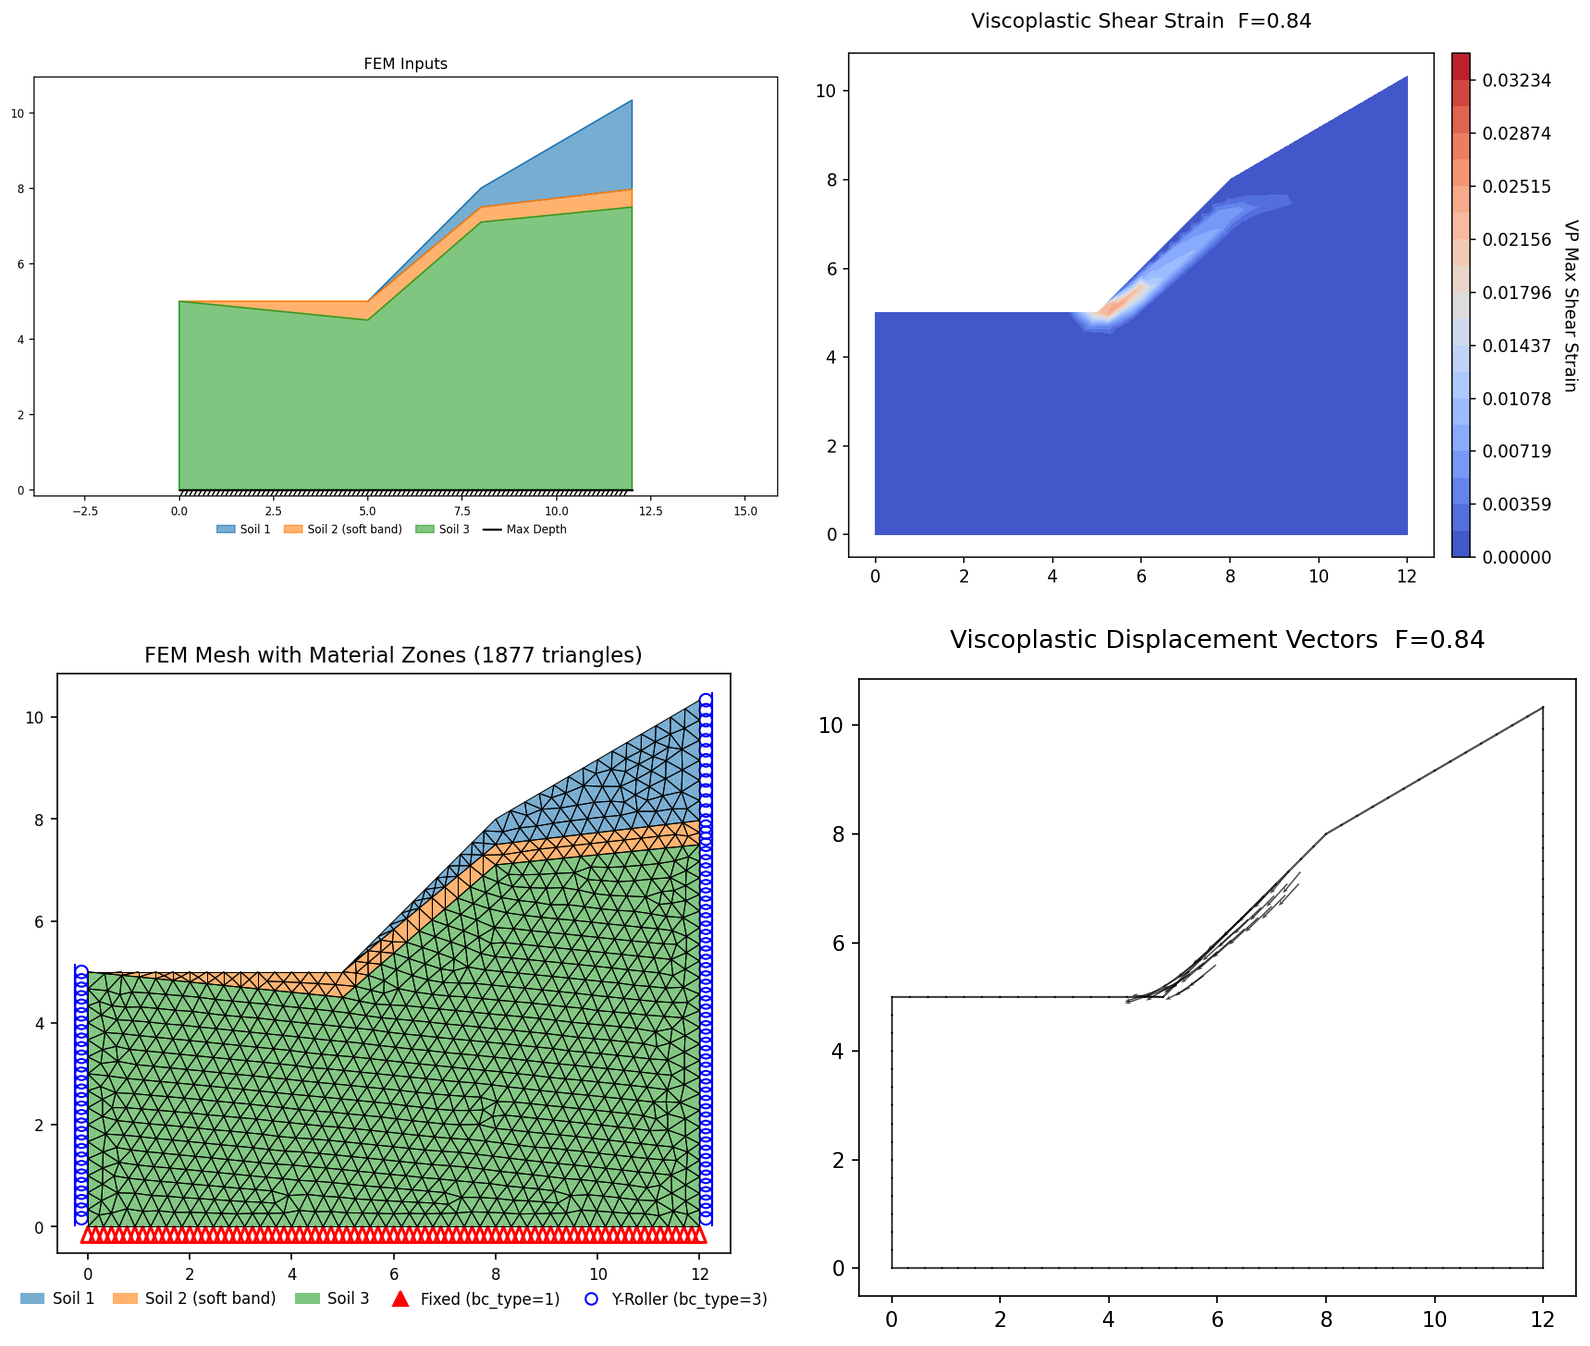
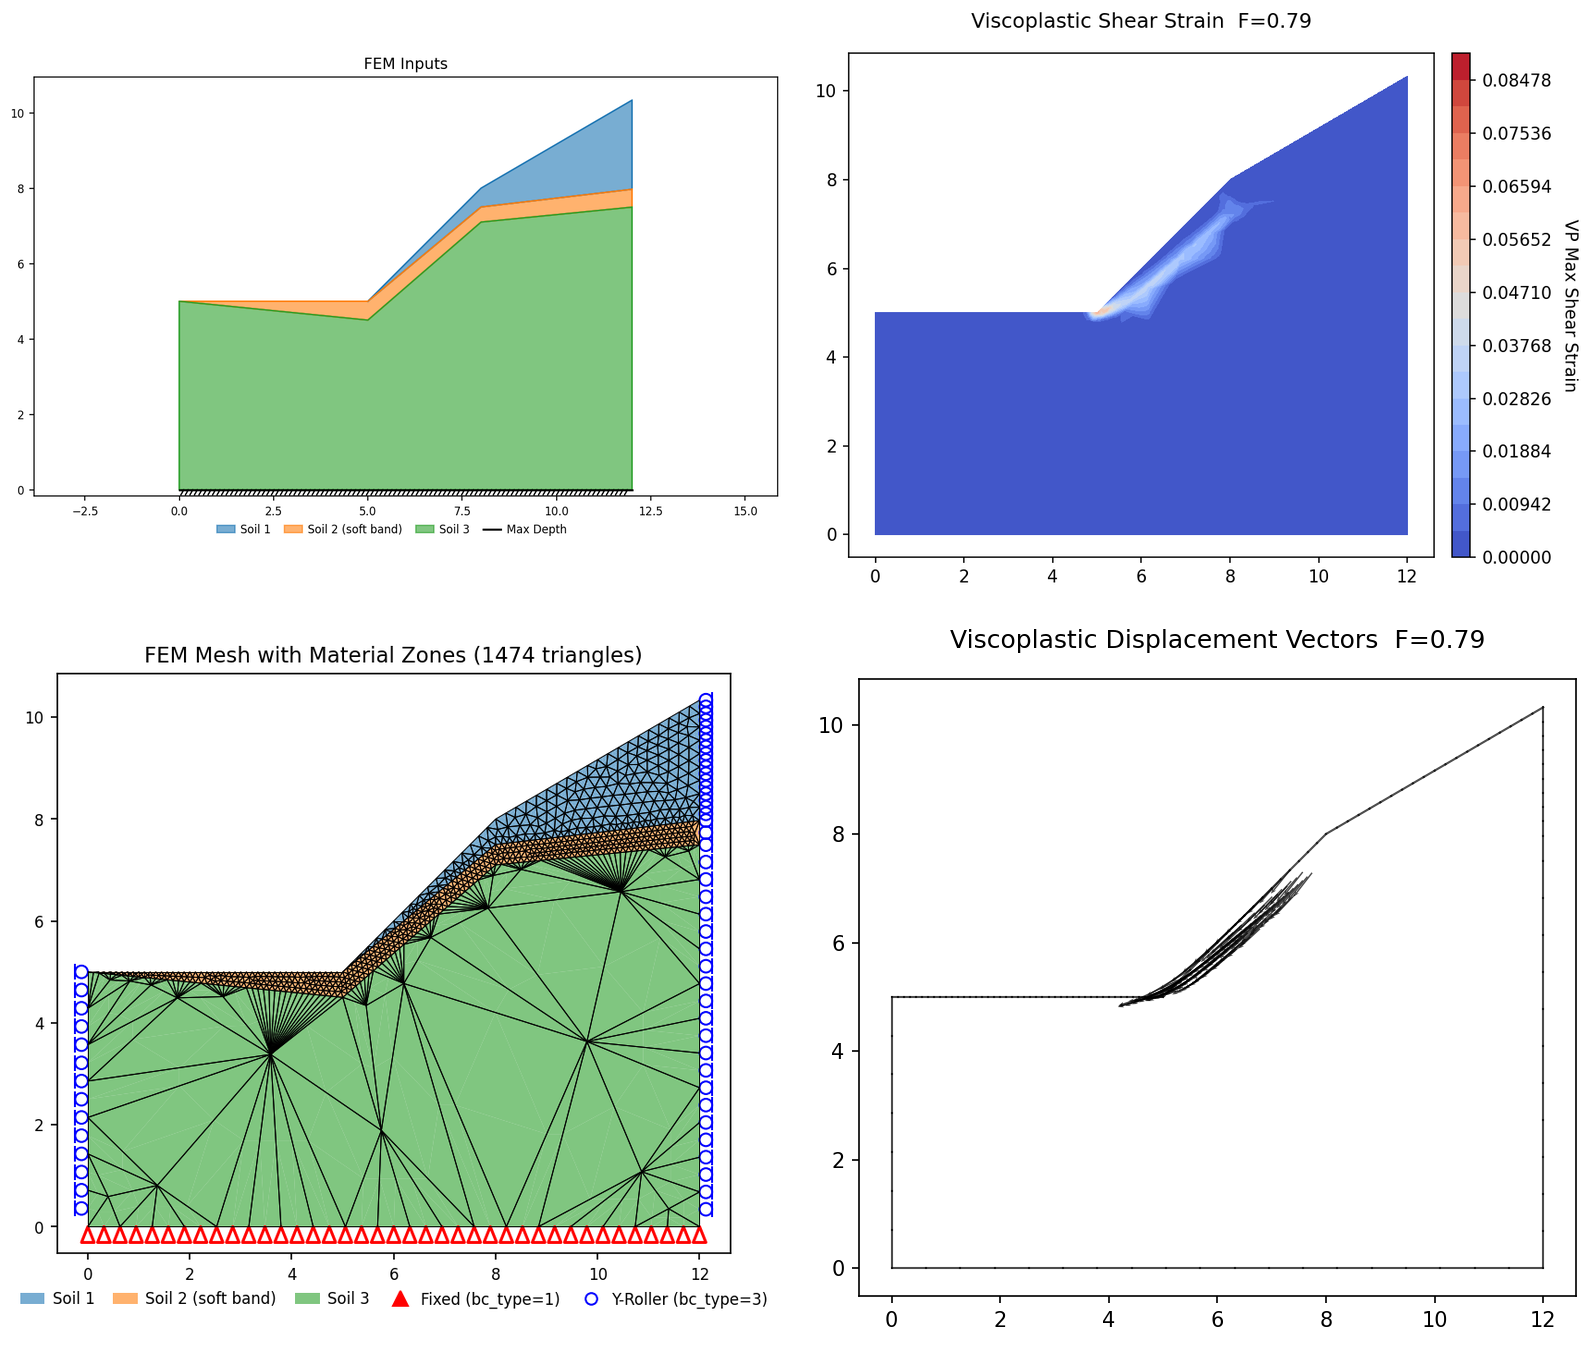
verification(rs2): re-anchor RS2-62c on the feature-refined mesh (0.843 -> 0.801)
Analysis III now runs on a coarse 0.6 m global mesh with feature-aware
thin-zone refinement (refine_factor=3), driving >=3 elements across the
~0.4 m soft band while leaving the far field coarse. FS lands at 0.801 at
3,079 nodes -- squarely on RS2 0.81 / Plaxis 0.82 and better than the
earlier under-resolved 0.843 @ 0.3 m / 3,882 nodes. Stable for f>=3
(f2 under-resolves the band -> 1.18). The I/II blocked reasons stand:
band-only refinement does not capture the wider-domain mechanism.

- rs2.md: RS2-62c tag expected_fs 0.843->0.801, target_size 0.3->0.6,
  add refine_factor=3, refine_features=thin_zones; summary row, results
  table, band-thickness prose, and figure caption updated (explicit pairs).
- make_rs2_figures._build now honors refine_factor/refine_features so the
  figure is rendered on the same refined mesh the lock records.
- RS2-62c.png regenerated (FS=0.801, mesh panel shows the resolved band).

Gate: run_tests.py --benchmark RS2-62c --jobs 2 -> PASS (0.801==0.801).

Claude-Session: https://claude.ai/code/session_0147GB4LGVZuqGHCRMVzZTsR

diff --git a/benchmarks/rocscience/make_rs2_figures.py b/benchmarks/rocscience/make_rs2_figures.py
@@ -105,10 +105,21 @@ def _build(tag):
             target = float(target)
         lines, _nr, _np = extract_constraint_line_geometry(sd)
         polys = get_material_polygons(sd, reinf_lines=lines)
+        # Feature-aware mesh refinement, matching run_tests._refine_kwargs: a tag
+        # carrying refine_factor=N (and optional refine_features=a;b) must build the
+        # SAME refined mesh the lock was recorded on, or the figure would show the
+        # unrefined coarse mesh and a different FS.
+        refine_kw = {}
+        if tag.get('refine_factor') is not None:
+            refine_kw['refine_factor'] = float(tag['refine_factor'])
+            feats = tag.get('refine_features')
+            if feats:
+                refine_kw['refine_features'] = [s.strip() for s in str(feats).split(';')
+                                                if s.strip()]
         mesh = build_mesh_from_polygons(
             polys, target_size=target,
             element_type=tag.get('element_type', 'tri6'), lines=lines,
-            point_constraints=extract_point_constraints(sd))
+            point_constraints=extract_point_constraints(sd), **refine_kw)
     return sd, build_fem_data(sd, mesh)
 
 

diff --git a/docs/verification/rs2.md b/docs/verification/rs2.md
@@ -152,7 +152,7 @@ independently verifiable.
 | [59](#rs2-59) | Three-layered soil slope | **built** | [rs2_59.xlsx](../files/rocscience/rs2_59.xlsx). Görög & Török (2007) Budapest landslide. The critical mechanism is **non-circular**, riding a thin weak "waste" lens (c = 1, φ = 5) — so this is an SSRM problem (a circular search misfinds the deeper competing surface, FS ≈ 1.9). SSRM 1.553 at the 3 m lock mesh vs Slide2 1.567 / RS2 SSRM 1.57 / PLAXIS 1.6 — lands on the Slide2/RS2 cluster (−0.9% / −1.1%). Mesh-sensitive: 1.61 at coarse meshes drifts to 1.553 once the tapering lens localizes. |
 | [60](#rs2-60) | Generalized Hoek–Brown, homogeneous slope | **built** (LEM) | [rs2_60a.xlsx](../files/rocscience/rs2_60a.xlsx) / [b](../files/rocscience/rs2_60b.xlsx) / [c](../files/rocscience/rs2_60c.xlsx). Three slope angles from Li, Merifield & Lyamin (2008) at GSI = 70, the strong-rock end of the criterion. With the vendor σ<sub>ci</sub> (0.598 / 1.61 / 4.37 kPa), Spencer 1.009 / 0.989 / 1.035 reproduces Slide2 Spencer 1.011 / 0.992 / 1.035. SSRM is not locked on this problem. |
 | [61](#rs2-61) | Local and global minima, homogeneous slope | **built** (cases 1, 3, 2) | [rs2_61a.xlsx](../files/rocscience/rs2_61a.xlsx). Cheng, Lansivaara & Wei (2007); one geometry, four search regions. Case 1 (global) Spencer 1.338 vs Slide2 1.336. Case 3 (upper-face local min) locked with the `circular_search` search-window limits — Spencer 1.437 vs Slide2 1.443 (−0.4 %). Case 2 (deep toe-to-crest) now locked by **constrained SSRM** with RS2's own SSR-Search-Area polygon (read verbatim from the vendor `.fez`) — 1.398 vs RS2 SSR 1.36 (+2.8 %). Case 4 measured head-to-head but blocked (SSRM ~1.50 vs 1.42, +5.5 %); the LEM route to the Cheng/Slide2 columns stays blocked, not tuned. |
-| [62](#rs2-62) | Three-layered slope with a soft band | **built** (Analysis III) | [rs2_62c.xlsx](../files/rocscience/rs2_62c.xlsx) (+ a/b built, unlocked). Cheng et al. (2007), 3 band widths × 2 dilation cases. SSRM (ψ = 0) 0.843 on the 12 m geometry vs RS2 0.81 / Plaxis 0.82 (Flac3D's ψ = 0 = 1.03 is the code-split the problem is about). The ≈ 0.4 m band must be mesh-resolved (0.998 → 0.843 from 0.5 → 0.3 m); the wider I/II domains are too costly to band-resolve for the suite, and the ψ = φ column is non-associated-only out of scope. |
+| [62](#rs2-62) | Three-layered slope with a soft band | **built** (Analysis III) | [rs2_62c.xlsx](../files/rocscience/rs2_62c.xlsx) (+ a/b built, unlocked). Cheng et al. (2007), 3 band widths × 2 dilation cases. SSRM (ψ = 0) 0.801 on the 12 m geometry vs RS2 0.81 / Plaxis 0.82 (Flac3D's ψ = 0 = 1.03 is the code-split the problem is about). The ≈ 0.4 m band must be mesh-resolved (0.998 → 0.801 once feature-aware refinement resolves the band on a coarse 0.6 m mesh); band-only refinement does not capture the wider I/II domains' failure mechanism, so they stay unlocked, and the ψ = φ column is non-associated-only out of scope. |
 | [63](#rs2-63) | Homogeneous slope assessment | **built** | [rs2_63.xlsx](../files/rocscience/rs2_63.xlsx). Cheng et al. (2007), 11 m homogeneous slope. Spencer 1.398 and SSRM 1.409 vs Slide2 1.380 / RS2 SSRM 1.38 / Cheng 1.383 (a consistent +1.5%). |
 | [64](#rs2-64) | Three homogeneous landslides | **partial** (7 of 12) | [rs2_64a.xlsx](../files/rocscience/rs2_64a.xlsx) (+ c/e locked unconstrained vs RS2 SSR; g/k locked SSR-zone vs RS2 SSR; b/d locked SSR-zone vs the Bishop reference; f, h/i/j/l blocked). Teoman, Topal & Isik (2004), Ankara clay E90 highway. **12 cases** (3 slopes × original/failed × short-/long-term). RS2 pinned each SSR run to a digitized *proposed* slip surface (manual Fig. 4), carried in the vendor `.fez` two ways — an **SSR Search-Area polygon** and a **Mohr-Coulomb corridor** with the rest of the domain made elastic (`Plasticity: None`). XSLOPE reproduces this with `solve_ssrm`'s `ssr_zone` (RS2's polygon read verbatim), holding elements outside at full strength (an approximation of the elastic zone). The 3 **short-term originals** matched unconstrained (5.201 / 4.807 / 5.647 vs 5.14 / 4.69 / 5.47, +1–3%); the smooth **long-term originals** C7 (1.674 vs 1.70, −1.5%) and C11 (1.403 vs 1.46, −3.9%) lock constrained. On the scarped **short-term failed** C2/C4 RS2's own SSR sits ~8–9% below its own Bishop columns, and XSLOPE lands on Bishop (C2 6.701 vs 6.67/6.64, +0.5%; C4 5.398 vs 5.32, +1.4%) — **locked to the triangulated Teoman/Slide2 reference**; C6 (7.836) instead overshoots every column (RS2 there agrees with its own Bishop) and stays blocked. SRF blocks show `auto_SRF=ON` (no sweep cap), so the RS2-vs-Bishop gap is recorded, cause undetermined. Refinement (1.0→0.5 m) pushes C9/C10/C8 further down, none into band; C8 pore pressures verified to <0.1% vs the vendor nodal field. Seismic 0.03 g confirmed destabilizing (C9 1.32 → 1.22). |
 | [65](#rs2-65) | Tailings dam | **built** | [rs2_65.xlsx](../files/rocscience/rs2_65.xlsx). Tzenkov (2008) Padina dam, **8 materials**, 12 zones, phreatic surface on the 225 × 77 m section. SSRM 1.331 at the 3 m lock mesh vs Slide2 circular 1.41 / non-circular 1.33 / RS2 SSRM 1.29 / ref LEM 1.39 / FEM 1.41 — lands on Slide2's non-circular LEM and inside the published 1.29–1.41 band. Mesh-sensitive: 1.381 / 1.369 / 1.331 at 8 / 5 / 3 m, drifting down from the LEM/FEM cluster toward RS2's SSRM as the band localizes. |
@@ -1696,25 +1696,30 @@ same ψ = 0 input, Plaxis and RS2 return ≈ 0.8–0.9 while Flac3D returns 1.03
 |---|---|---|---|---|
 | I (28 m) | ≈ 1.0 (coarse mesh) | 0.88 | 0.86 | 1.64 |
 | II (20 m) | ≈ 1.0 (coarse mesh) | 0.89 | 0.85 | 1.30 |
-| III (12 m) | **0.843** | 0.81 | 0.82 | 1.03 |
+| III (12 m) | **0.801** | 0.81 | 0.82 | 1.03 |
 
 *Case 2 (ψ = φ) reference values — RS2 0.98 / 0.98 / 0.93, Plaxis 0.97 / 0.97 / 0.94, Flac3D
 1.61 / 1.28 / 1.03 — are not reproducible here: XSLOPE's SSRM is non-associated only (ψ = 0,
 the Griffiths convention), so the associated-flow column is out of scope by construction.*
 
 The controlling detail is the **band thickness** (≈ 0.4 m): the SSRM only reproduces the
-Plaxis/RS2 ψ = 0 cluster when the mesh resolves the band. Analysis III drifts from 0.998 at a
-0.5 m mesh to **0.843** at 0.3 m (≈ 2 elements across the band) — landing on RS2 0.81 / Plaxis
-0.82. Analyses I and II show the same behaviour (≈ 1.0 at a coarse 0.6 m mesh) but their wider
-domains make a band-resolving 0.3 m mesh too costly for the regression suite, so only the small
-Analysis III geometry is locked; it is the representative case for the family. The lock is a
-regression anchor at the tagged 0.3 m mesh, not a converged value.
+Plaxis/RS2 ψ = 0 cluster when the mesh resolves the band. Feature-aware refinement
+(`refine_factor=3, refine_features=thin_zones`) drives ≥ 3 elements across the soft band while
+leaving the far field at a coarse 0.6 m global size, so Analysis III lands on **0.801** at 3,079
+nodes — squarely on RS2 0.81 / Plaxis 0.82, and below the earlier under-resolved 0.998 at a
+uniform 0.5 m mesh. The refined result is stable at the default factor and above (f ≥ 3 give the
+identical 0.801; f = 2 under-resolves the band to 2 elements → 1.18). Analyses I and II show the
+same coarse-mesh behaviour (≈ 1.0 at 0.6 m) but band-only refinement does not capture their
+wider-domain mechanism — the extended failure surface runs through the coarse far field (I even
+rises to 1.38 under band refinement) — so only the small Analysis III geometry is locked; it is
+the representative case for the family. The lock is a mesh-resolved anchor at the tagged
+refined 0.6 m mesh.
 
-<!-- test: file=../files/rocscience/rs2_62c.xlsx, type=fem_ssrm, expected_fs=0.843, element_type=tri6, target_size=0.3, tolerance=0.02, f_min=0.4, f_max=1.3, max_iter=16000, benchmark=RS2-62c -->
+<!-- test: file=../files/rocscience/rs2_62c.xlsx, type=fem_ssrm, expected_fs=0.801, element_type=tri6, target_size=0.6, tolerance=0.02, f_min=0.4, f_max=1.3, max_iter=16000, refine_factor=3, refine_features=thin_zones, benchmark=RS2-62c -->
 
 **Analysis III — 12 m domain, ψ = 0 (rs2_62c)**
 
-![RS2-62: three-layered slope with a soft band (Cheng et al. 2007), Analysis III (12 m domain, ψ = 0, SSRM 0.843) — FEM inputs, mesh, max shear strain and displacement vectors at the critical SRF, the mechanism riding the soft band](images/RS2-62c.png)
+![RS2-62: three-layered slope with a soft band (Cheng et al. 2007), Analysis III (12 m domain, ψ = 0, SSRM 0.801) — FEM inputs, mesh, max shear strain and displacement vectors at the critical SRF, the mechanism riding the soft band](images/RS2-62c.png)
 
 ### RS2-63: Slope stability assessment of a homogeneous slope (Cheng et al. 2007) {#rs2-63}
 
